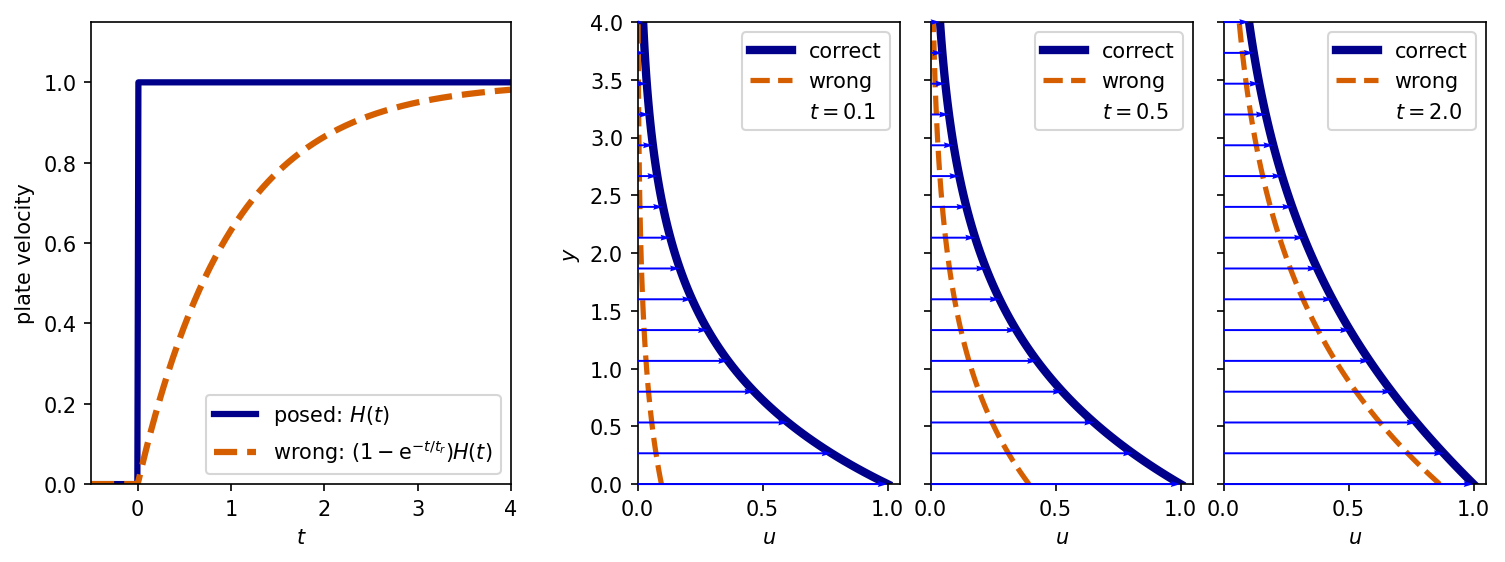
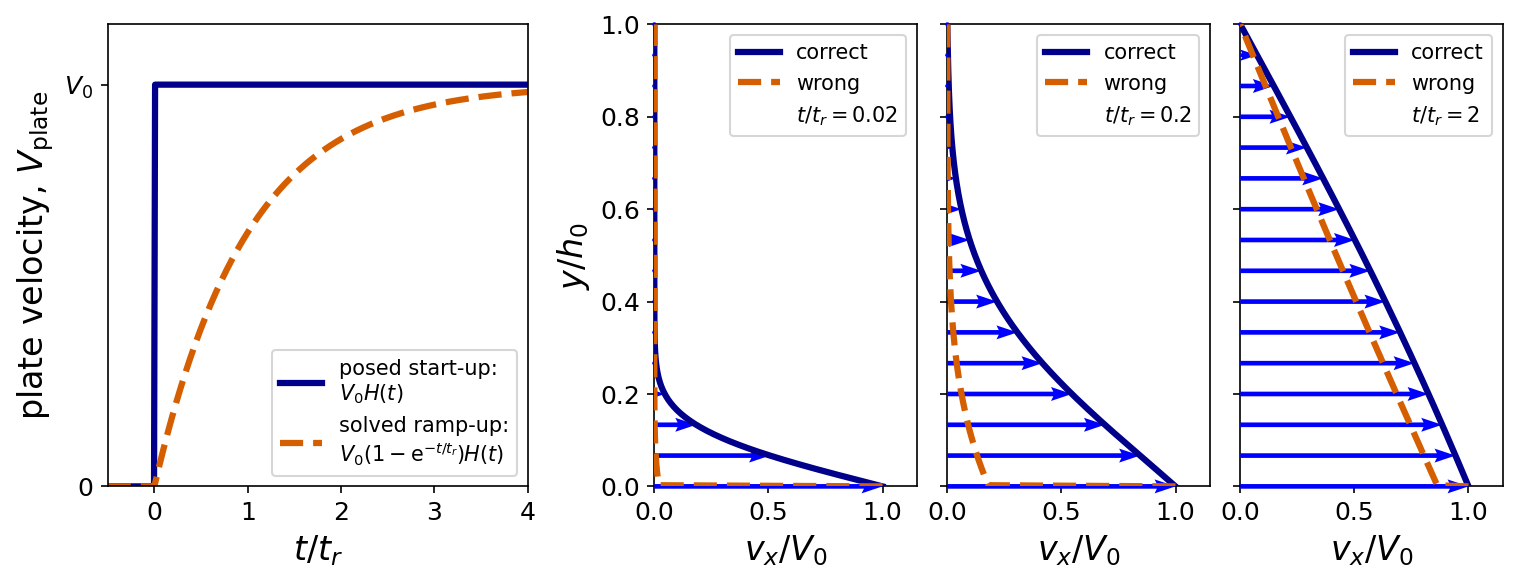
New cover: Couette start-up; README notation and edits

diff --git a/README.md b/README.md
@@ -1,12 +1,12 @@
 # viscoelastic-startup
 
-![Left: the velocity of a plate started impulsively, a unit step, and the ramp 1 - exp(-t/t_r) that the erroneous solutions actually describe. Right: velocity profiles of a second-grade fluid above the plate at three times, the correct solution in blue with arrows and the erroneous one as a vermillion dashed curve lagging behind it](assets/cover.png)
+![Left: the posed plate velocity, a step, and the ramp 1 - exp(-t/t_r) that the erroneous solutions actually solve. Right: start-up of plane Couette flow of an Oldroyd-B fluid at three times, the correct profile in blue with arrows, the erroneous series vermillion dashed, lagging as if the plate were ramped](assets/cover.png)
 
-This is a GitHub repository for the verification and reproducibility of exact solutions for **start-up flows of viscoelastic fluids**, maintained by Prof. [Ivan C. Christov](https://christov.tmnt-lab.org). A plate, at rest for all $t < 0$, is suddenly set into motion at $t = 0^+$ and drags a [viscoelastic](https://en.wikipedia.org/wiki/Viscoelasticity) fluid (modeled, for example, by the so-called second-grade, [Oldroyd-B](https://en.wikipedia.org/wiki/Oldroyd-B_model), or even Gordon&ndash;Schowalter models) along with it. Variants include [Stokes' first and second problems](https://en.wikipedia.org/wiki/Stokes_problem) on an unbounded domain, and the start-up of plane [Couette flow](https://en.wikipedia.org/wiki/Couette_flow) in a channel. Other variations are possible.
+This is a GitHub repository for the verification and reproducibility of exact solutions for **start-up flows of viscoelastic fluids**, maintained by Prof. [Ivan C. Christov](https://christov.tmnt-lab.org). A plate, at rest for all $t < 0$, is suddenly set into motion at $t = 0^+$ and drags a [viscoelastic](https://en.wikipedia.org/wiki/Viscoelasticity) fluid (modeled by the second-grade, [Oldroyd-B](https://en.wikipedia.org/wiki/Oldroyd-B_model) or Gordon&ndash;Schowalter models, for example) along with it. Variants include [Stokes' first and second problems](https://en.wikipedia.org/wiki/Stokes_problem) on an unbounded domain, and the start-up of plane [Couette flow](https://en.wikipedia.org/wiki/Couette_flow) in a channel. In these unidirectional flows, the convective terms of the Oldroyd-B model drop out of the shear-stress equation, leaving the linear Jeffreys model, so the two names are used interchangeably here and in the notebooks; only the Gordon&ndash;Schowalter slip parameter keeps the normal stresses coupled in.
 
-Over the last two decades, dozens of (sometimes) highly cited papers have presented "new exact solutions" to these classical problems that are, generally speaking, incorrect. The mathematical error is elementary, and it is the same one each time. Together with C. I. Christov and P. M. Jordan, I have been correcting these papers, one Comment at a time, in a project I loosely call _On Stokes' problems: a study in repetitive errors in the fluid mechanics literature_. This is the open-source GitHub version of the project.
+Over the last two decades, dozens of (sometimes) highly cited papers have presented "new exact solutions" to these classical problems that are incorrect. The mathematical error is elementary, and it is the same one each time. Together with C. I. Christov and P. M. Jordan, I have been correcting these papers, one Comment at a time, in a project I loosely call _On Stokes' problems: a study in repetitive errors in the fluid mechanics literature_. This is the open-source GitHub version of the project.
 
-Although these Comments definitively settled the mathematics and solutions over a decade ago, the same errors continue to pop up and be promulgated. In this area of mechanics, everything is demonstrably true or false by the rules of mathematics using deductive logic, and there are no gray areas. So, rather than ask the reader to take my word for it, **each notebook in this repository reproduces one of those Comments from scratch**: the corrected solution, the erroneous published solution implemented exactly as printed, an independent check of both (a numerical inversion of the Laplace transform and a finite-difference solution), and the paper's comparison figure(s), regenerated.
+Although these Comments definitively settled the mathematics and solutions over a decade ago, the same errors continue to pop up and be promulgated. In this area of mechanics, everything is demonstrably true or false; there are no gray areas. So, rather than ask the reader to take my word for it, **each notebook in this repository reproduces one of those corrections from scratch**: the corrected solution, the erroneous published solution implemented exactly as printed, an independent check of both (a numerical inversion of the Laplace transform and a finite-difference solution), and the paper's comparison figure(s), regenerated.
 
 🚀 Getting started: the notebooks are independent of each other; [christov_christov_2010_second_grade](notebooks/christov_christov_2010_second_grade.ipynb) is the shortest route to the main idea.
 
@@ -20,19 +20,23 @@ Although these Comments definitively settled the mathematics and solutions over 
 | [![Open In Colab](https://colab.research.google.com/assets/colab-badge.svg)](https://colab.research.google.com/github/ichristov/viscoelastic-startup/blob/main/notebooks/christov_jordan_2012_second_grade_stokes2.ipynb) [christov_jordan_2012_second_grade_stokes2](notebooks/christov_jordan_2012_second_grade_stokes2.ipynb) | Transient Stokes' second problem (oscillating plate), second-grade fluid, half-space and strip | [[5]](#citing) |
 | [![Open In Colab](https://colab.research.google.com/assets/colab-badge.svg)](https://colab.research.google.com/github/ichristov/viscoelastic-startup/blob/main/notebooks/jordan_2005_second_grade_couette.ipynb) [jordan_2005_second_grade_couette](notebooks/jordan_2005_second_grade_couette.ipynb) | Start-up of plane Couette flow, second-grade fluid | [[6]](#citing) |
 | [![Open In Colab](https://colab.research.google.com/assets/colab-badge.svg)](https://colab.research.google.com/github/ichristov/viscoelastic-startup/blob/main/notebooks/christov_2011_jordan_2010_nonrwa.ipynb) [christov_2011_jordan_2010_nonrwa](notebooks/christov_2011_jordan_2010_nonrwa.ipynb) | The Laplace transform of a suddenly moved plate's velocity; Stokes' first problem, second-grade fluid in a porous half-space | [[7, 8]](#citing) |
-| [![Open In Colab](https://colab.research.google.com/assets/colab-badge.svg)](https://colab.research.google.com/github/ichristov/viscoelastic-startup/blob/main/notebooks/balan_2023_startup_couette.ipynb) [balan_2023_startup_couette](notebooks/balan_2023_startup_couette.ipynb) | Start-up of Couette flow, Oldroyd-B and Gordon&ndash;Schowalter fluids: initial data that are inconsistent with a retardation time, and the figure of a Comment in preparation | [[9]](#citing) |
+| [![Open In Colab](https://colab.research.google.com/assets/colab-badge.svg)](https://colab.research.google.com/github/ichristov/viscoelastic-startup/blob/main/notebooks/balan_2023_startup_couette.ipynb) [balan_2023_startup_couette](notebooks/balan_2023_startup_couette.ipynb) | Start-up of plane Couette flow, Oldroyd-B and Gordon&ndash;Schowalter fluids: initial data that are inconsistent with a retardation time, and the figure of a Comment in preparation | [[9]](#citing) |
 
 ## One mistake, many papers
 
-The velocity of a plate suddenly set into motion at $t = 0^+$ is $\widetilde U(t)H(t)$, where $H$ is the [Heaviside unit step function](https://en.wikipedia.org/wiki/Heaviside_step_function). In the sense of [distributions](https://en.wikipedia.org/wiki/Distribution_(mathematics)), its derivative contains $\widetilde U(0)\delta(t)$. The [Dirac delta distribution](https://en.wikipedia.org/wiki/Dirac_delta_function), $\delta(t)$, has no point values; however, when it is the forcing term of an ODE in $t$, it contributes to the solution. (Prof. Arthur Mattuck's outstanding MIT 18.03 video lectures on [discontinuous inputs](https://ocw.mit.edu/courses/18-03-differential-equations-spring-2010/resources/lecture-22-using-laplace-transform-to-solve-odes-with-discontinuous-inputs/) and [impulse inputs](https://ocw.mit.edu/courses/18-03-differential-equations-spring-2010/resources/lecture-23-use-with-impulse-inputs/) explain this beautifully.) **Every erroneous solution reproduced here loses that $\delta(t)$**: it is treated as identically zero when the [Fourier sine transform](https://en.wikipedia.org/wiki/Sine_and_cosine_transforms) meets a mixed derivative, or it is hidden in an initial condition when the steady state is "subtracted off" before an [eigenfunction expansion](https://en.wikipedia.org/wiki/Separation_of_variables). The [Laplace transform](https://en.wikipedia.org/wiki/Laplace_transform) in time, applied to the problem as posed, cannot make this mistake.
+Let $V_\mathrm{plate}(t) \equiv v_x(0,t)$ be the velocity of the plate. For a plate at rest until it is suddenly set into motion at $t = 0^+$,
+$$
+\text{posed start-up:}\quad V_\mathrm{plate}(t) = V_0 f(t)H(t),
+$$
+where $V_0$ is the plate's speed, $f$ the shape of its motion ($f \equiv 1$ for start-up, $\cos\omega t$ or $\sin\omega t$ for an oscillating plate), and $H$ the [Heaviside unit step function](https://en.wikipedia.org/wiki/Heaviside_step_function). In the sense of [distributions](https://en.wikipedia.org/wiki/Distribution_(mathematics)), the derivative of $V_\mathrm{plate}$ contains $V_0f(0)\delta(t)$. The [Dirac delta distribution](https://en.wikipedia.org/wiki/Dirac_delta_function), $\delta(t)$, has no point values; however, when it is the forcing term of an ODE in $t$, it contributes to the solution. (Prof. Arthur Mattuck's outstanding MIT 18.03 video lectures on [discontinuous inputs](https://ocw.mit.edu/courses/18-03-differential-equations-spring-2010/resources/lecture-22-using-laplace-transform-to-solve-odes-with-discontinuous-inputs/) and [impulse inputs](https://ocw.mit.edu/courses/18-03-differential-equations-spring-2010/resources/lecture-23-use-with-impulse-inputs/) explain this beautifully.) **Every erroneous solution reproduced here loses that $\delta(t)$**: it is treated as identically zero when the [Fourier sine transform](https://en.wikipedia.org/wiki/Sine_and_cosine_transforms) meets a mixed derivative, or it is hidden in an initial condition when the steady state is "subtracted off" before an [eigenfunction expansion](https://en.wikipedia.org/wiki/Separation_of_variables). The [Laplace transform](https://en.wikipedia.org/wiki/Laplace_transform) in time, applied to the problem as posed, cannot make this mistake.
 
 What is lost has a clean physical meaning. For a fluid with a retardation time $t_r$ (second-grade, Oldroyd-B), the erroneous solution is the _exact_ solution for a different plate, one whose start-up jump is ramped on the retardation time:
 $$
-u(0,t) = \left[\widetilde U(t) - \widetilde U(0)\,\mathrm{e}^{-t/t_r}\right]H(t).
+\text{solved ramp-up:}\quad V_\mathrm{plate}(t) = V_0\left[f(t) - f(0)\,\mathrm{e}^{-t/t_r}\right]H(t).
 $$
-For a plate moved at constant velocity, the Laplace transform of the erroneous solution is the correct one divided by $1 + t_r s$. C. I. Christov and I found this ramped plate for Stokes' first problem of a second-grade fluid [[3]](#citing); each notebook with an erroneous solution shows, in its section _What problem does the wrong solution actually solve?_, that the same holds for its erroneous solution. For the oscillating plate, this answers the question that P. M. Jordan and I left open in [[5]](#citing) (p. 330), of "what kind of boundary condition the wrong solution satisfies, or whether it has any physical meaning." The same ramped plate is the problem actually solved by a recent numerical study [[9]](#citing), whose initial data set the shear stress to zero while the plate is already moving; there, the $\delta(t)$ is lost in a method-of-lines code rather than in a transform.
+For a plate moved at constant velocity ($f \equiv 1$), the Laplace transform of the erroneous solution is the correct one divided by $1 + t_r s$. C. I. Christov and I found this ramped plate for Stokes' first problem of a second-grade fluid [[3]](#citing); each notebook shows the same for its own erroneous solution. For the oscillating plate, it answers the question P. M. Jordan and I left open in [[5]](#citing) (p. 330), of "what kind of boundary condition the wrong solution satisfies, or whether it has any physical meaning." A recent numerical study [[9]](#citing) solves that same ramped plate: its initial data set the shear stress to zero while the plate is already moving, losing the $\delta(t)$ in a method-of-lines code rather than in a transform.
 
-Two consequences follow. For a Newtonian or Maxwell fluid ($t_r = 0$), or a plate started without a jump ($\widetilde U(0) = 0$, such as $\sin\omega t$), the error disappears, **so reducing a solution to one of these limits does not validate it.** And since the two plates agree after a few retardation times, the erroneous solution looks right at long times; the difference is in the start-up, which is what the problem is about.
+Two consequences follow. For a Newtonian or Maxwell fluid ($t_r = 0$), or a plate started without a jump ($f(0) = 0$, such as $f = \sin\omega t$), the error disappears, **so reducing a solution to one of these limits does not validate it.** And since the two plates agree after a few retardation times, the erroneous solution looks right at long times; the difference is in the start-up, which is what the problem is about.
 
 ## Running the notebooks
 
@@ -47,9 +51,9 @@ jupyter lab notebooks/
 
 Each notebook runs top to bottom on a fresh kernel and regenerates every number and figure it shows; there are no data files. On a laptop, each takes up to three minutes. The notebooks are committed executed, so they can also be read on GitHub without running them, with a static plot in place of each interactive one. The regenerated paper figures are also in [`figures/`](figures/).
 
-⚠ The notebooks are unlikely to be robust and may require updates to run on different platforms, and as underlying Python libraries evolve.
+⚠ The notebooks are not meant to be robust: they may need updates on other platforms, or as the Python libraries evolve.
 
-💡 To run a notebook as a standalone Python script (stripping all the Markdown commentary), convert it in your terminal, for example:
+💡 To run a notebook as a standalone Python script (stripping all the Markdown commentary), convert it:
 
 ```bash
 jupyter nbconvert notebooks/christov_christov_2010_second_grade.ipynb --to python --PythonExporter.exclude_markdown=True
@@ -79,7 +83,7 @@ Please cite the Comment whose results you use; each notebook's REFERENCES cell h
 8. P. M. Jordan, [Comments on: &ldquo;Exact solution of Stokes' first problem for heated generalized Burgers' fluid in a porous half-space&rdquo;](https://doi.org/10.1016/j.nonrwa.2009.01.010) [Nonlinear Anal. RWA 9 (2008) 1628], _Nonlinear Anal. RWA_ **11** (2010) 1198&ndash;1200.
 9. C. Balan, [Note on the start-up of Couette flow for viscoelastic fluids](https://doi.org/10.1063/5.0173510), _Phys. Fluids_ **35** (2023) 113108; the notebook reproduces its start-up computations and the Comment on it that I am preparing.
 
-📝 Two more Comments in the same series are not (yet) reproduced here: I. C. Christov, [Comment on &ldquo;The velocity field due to an oscillating plate in an Oldroyd-B fluid&rdquo;](https://doi.org/10.1139/cjp-2015-0374) by C. C. Hopkins and J. R. de Bruyn [Can. J. Phys. 92, 533 (2014)], _Can. J. Phys._ **93** (2015) 1651&ndash;1652, and I. C. Christov, [Comment on: &ldquo;Stokes' first problem for heated flat plate with Atangana&ndash;Baleanu fractional derivative&rdquo;](https://doi.org/10.1016/j.chaos.2021.110999) [Chaos Solitons Fractals 117 (2018) 68], _Chaos Solitons Fractals_ **147** (2021) 110999. The latter shows that a 2018 paper commits the mathematical mistake already identified and corrected in [[3]](#citing). It is claimed that Winston Churchill wrote that "Those that fail to learn from history are doomed to repeat it." Indeed.
+📝 Two more Comments in the same series are not (yet) reproduced here: I. C. Christov, [Comment on &ldquo;The velocity field due to an oscillating plate in an Oldroyd-B fluid&rdquo;](https://doi.org/10.1139/cjp-2015-0374) by C. C. Hopkins and J. R. de Bruyn [Can. J. Phys. 92, 533 (2014)], _Can. J. Phys._ **93** (2015) 1651&ndash;1652, and I. C. Christov, [Comment on: &ldquo;Stokes' first problem for heated flat plate with Atangana&ndash;Baleanu fractional derivative&rdquo;](https://doi.org/10.1016/j.chaos.2021.110999) [Chaos Solitons Fractals 117 (2018) 68], _Chaos Solitons Fractals_ **147** (2021) 110999. The latter shows that a 2018 paper commits the mathematical mistake already identified and corrected in [[3]](#citing). George Santayana wrote that ["Those who cannot remember the past are condemned to repeat it"](https://en.wikiquote.org/wiki/George_Santayana), a line more often misattributed to Churchill than read. Indeed.
 
 ## Licenses
 
